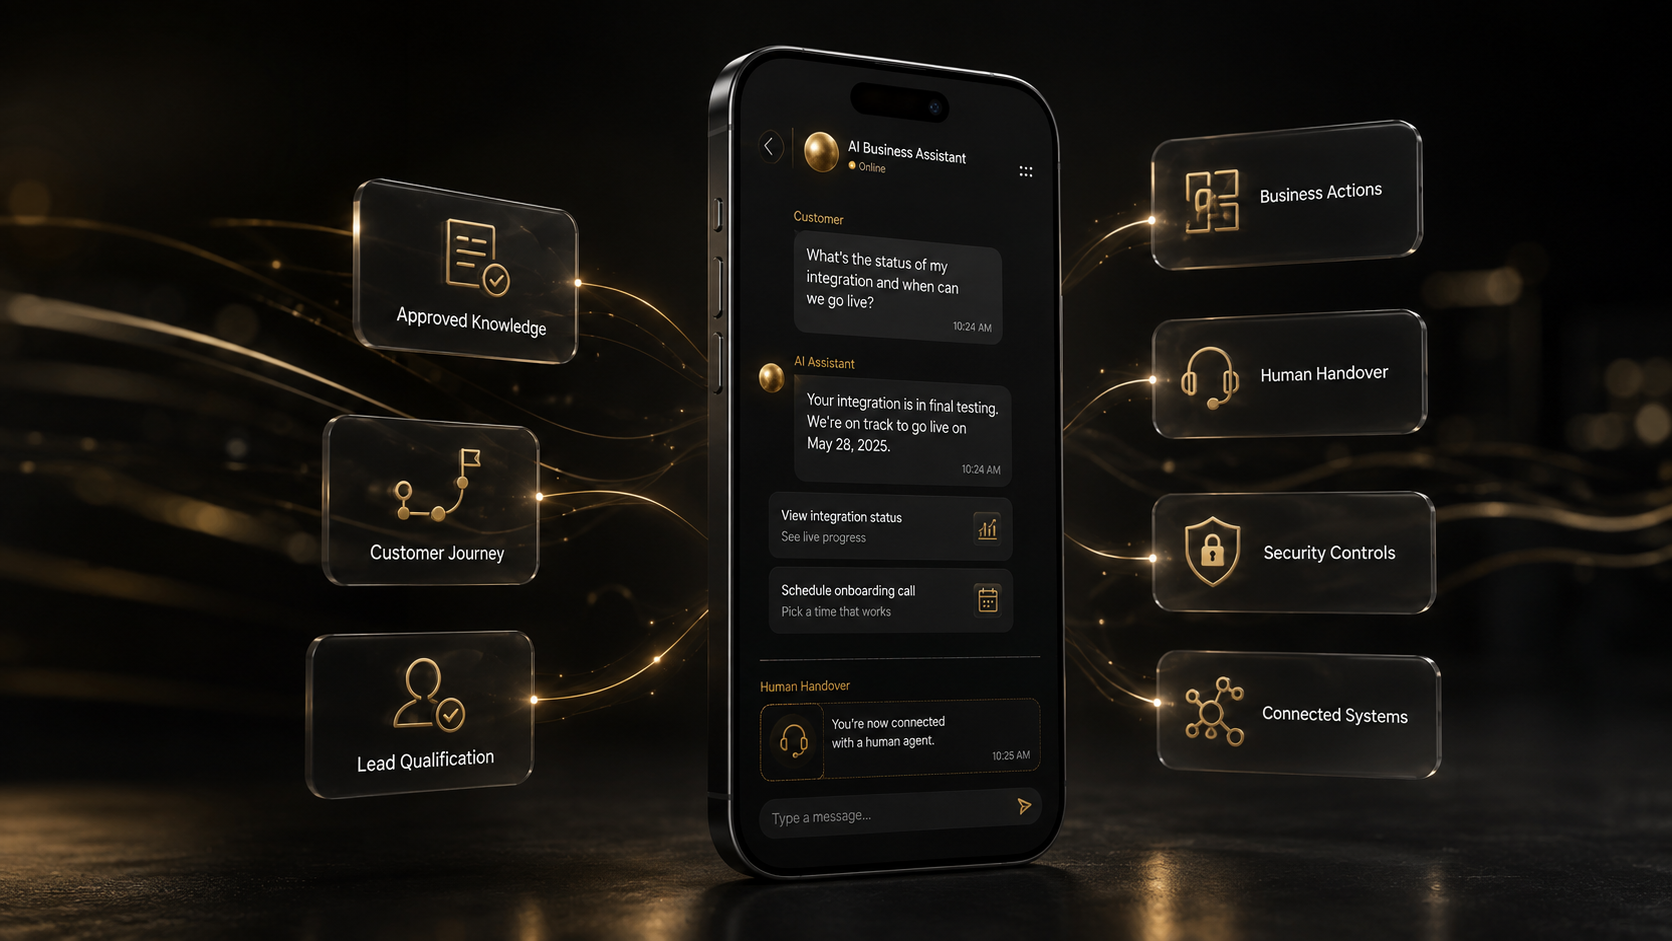
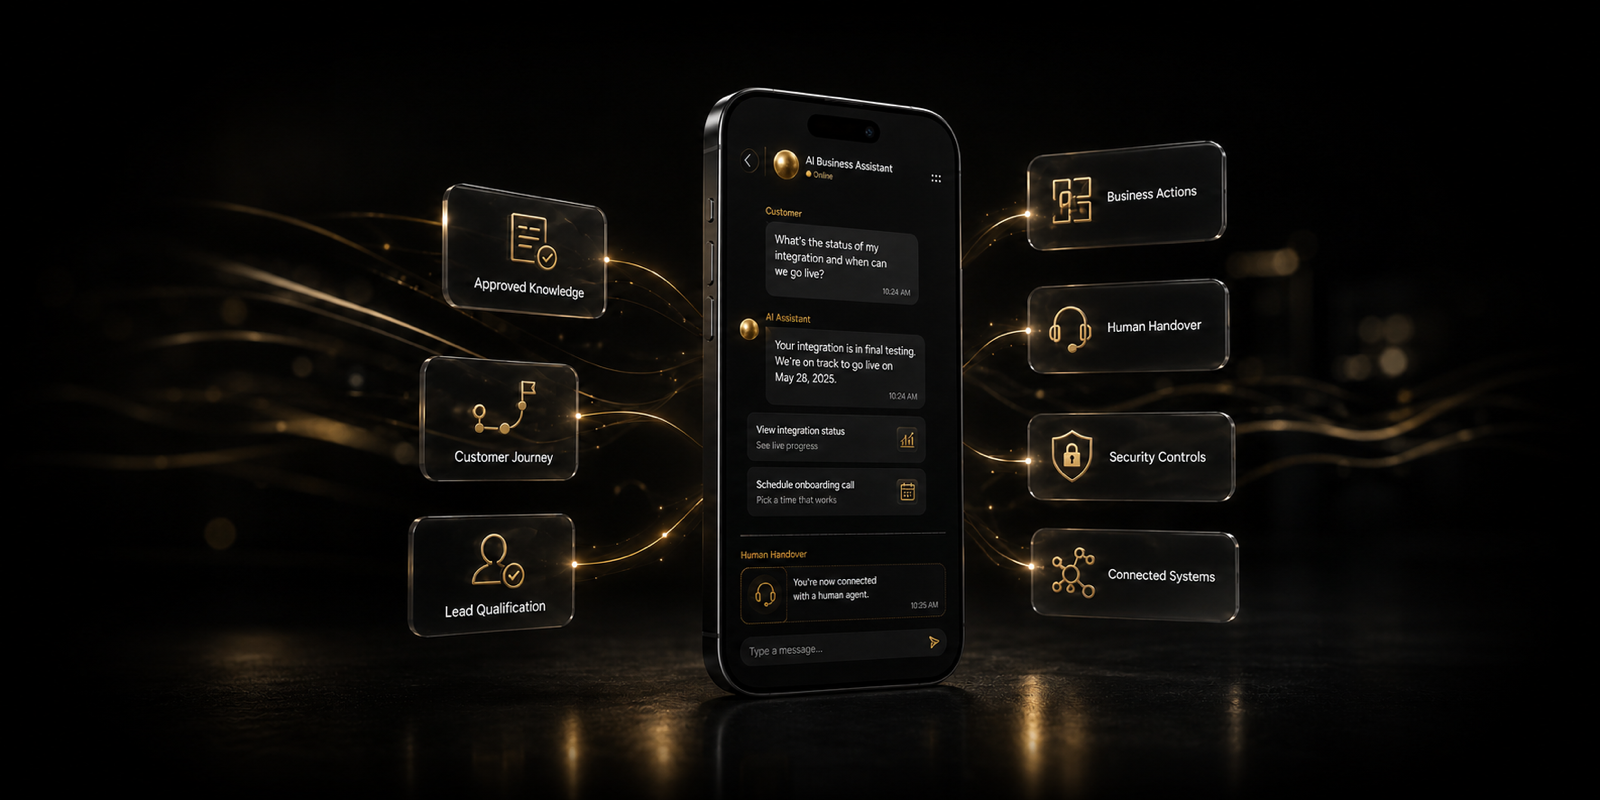
Refine AI assistant image presentation

diff --git a/app/page.tsx b/app/page.tsx
@@ -69,8 +69,8 @@ export default function HomePage() {
         <Image
           src="/media/aifrogi-ai-business-assistant.png"
           alt="AiFrogi AI Business Assistant connecting approved knowledge, customer journeys, lead qualification, business actions, human handover, security controls and connected systems."
-          width={1672}
-          height={941}
+          width={1600}
+          height={800}
           sizes="100vw"
           className="h-auto w-full object-cover"
         />
